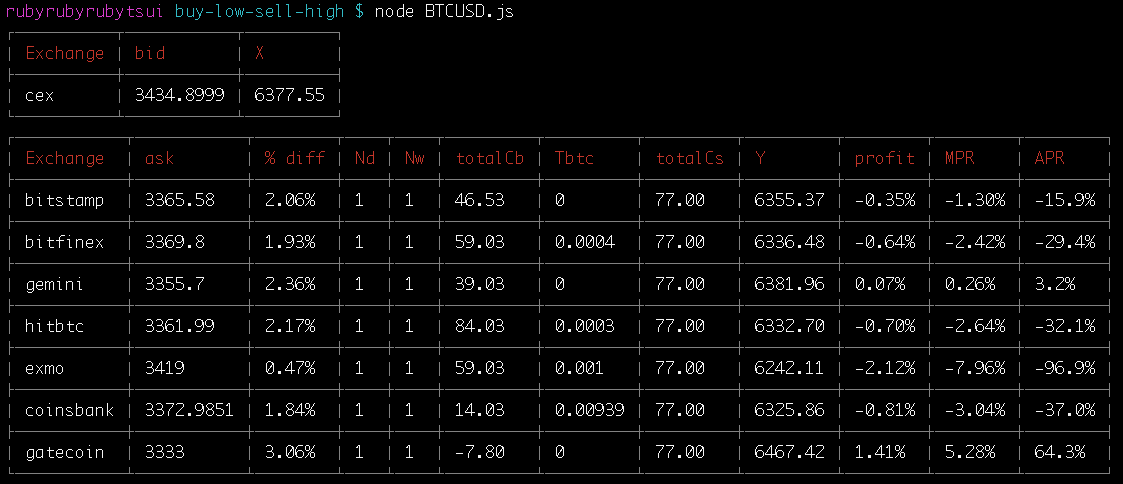
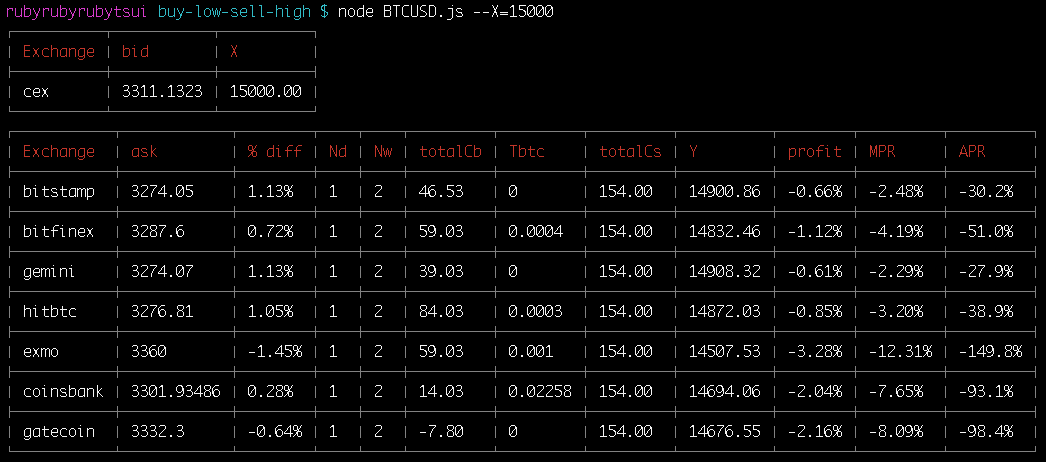
Bugfix & update image

diff --git a/main.js b/main.js
@@ -15,7 +15,7 @@ module.exports = function* main(X, Mb, Tt, symbol, sellExch, exchanges, _print =
     return fetchTick(exchInfo.name, symbol)
       .then(tick => {
         const Fxb = tick.ask;
-        const depositCount = Math.ceil(X / Math.min(exchInfo.Mb, Mb));
+        const depositCount = Math.max(1, Math.ceil(X / Math.min(exchInfo.Mb, Mb)));
         const _Cb = typeof exchInfo.Cb === 'function'
           ? exchInfo.Cb(X / depositCount)
           : exchInfo.Cb;
